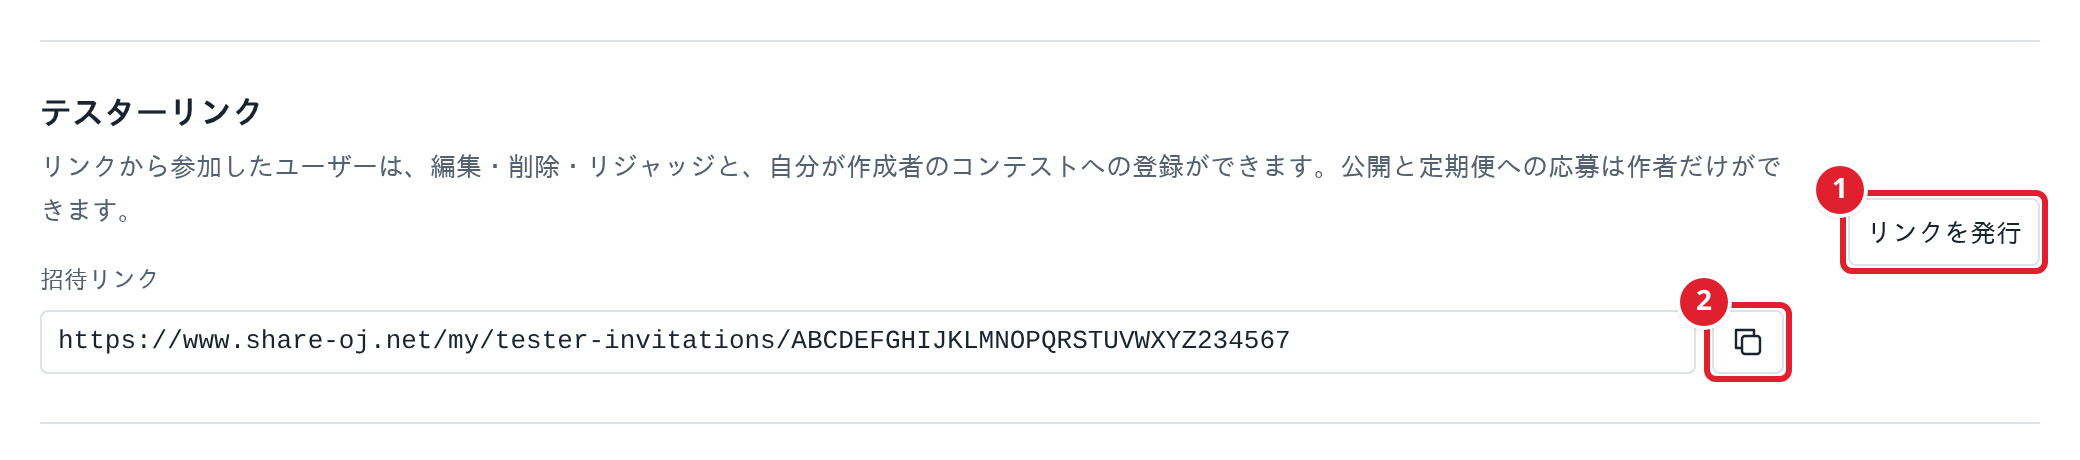
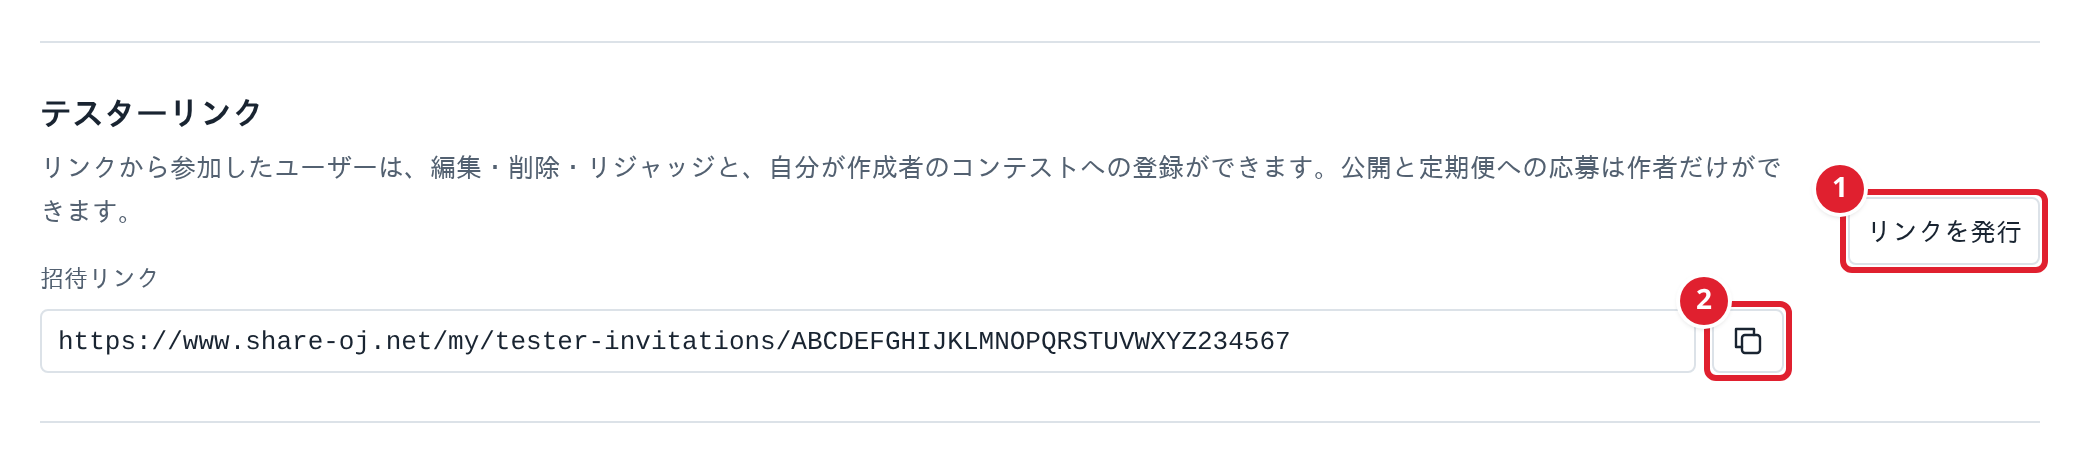
fix: 誤答ペナルティの数え方を実装に合わせ、ガイドの画像を撮り直す

diff --git a/web/app/content/docs/contest-rules.md b/web/app/content/docs/contest-rules.md
@@ -23,16 +23,21 @@
 
 ## 誤答ペナルティ {#penalty}
 
-正解した問題ごとに、初めて正解する前の誤答の回数だけ、ペナルティ時間を足します。
+得点した問題ごとに、誤答の回数だけペナルティ時間を足します。
 1回あたりのペナルティ時間はコンテストのページに表示します。
 
 | 扱い | 対象 |
 | --- | --- |
 | 誤答として数える | :WA:、:RE:、:TLE:、:MLE:、:OLE: |
 | 数えない | :CE:、:JE:、判定待ちの提出 |
-| 数えない | 正解していない問題の誤答、正解したあとの誤答 |
+| 数えない | 得点していない問題の誤答 |
 
-部分点のある問題では、最後に得点を伸ばした提出より前の、得点を伸ばさなかった提出を誤答として数えます。
+数える誤答の範囲は、問題の採点方式で違います。
+
+| 問題 | 数える範囲 |
+| --- | --- |
+| 部分点のない問題 | 初めて正解する前の誤答 |
+| 部分点のある問題 | 最後に得点を伸ばした提出より前の、得点を伸ばさなかった提出 |
 
 たとえば、次の場合に順位の比較に使う時間は55分です。
 

diff --git a/web/README.md b/web/README.md
@@ -62,6 +62,12 @@ UUID を含む旧 URL は 301 で短い形へ転送する。
 サイドバー、ガイドのトップ、フッター、サイトマップ、共有画像は `shared/docs.ts` から作る。
 ページを足すときは、一覧に1件加えて本文の Markdown を置けばよい。
 
+大分類は読者（参加者向け、作問者向け、開発者向け）で分ける。
+`docSections` の `title` が、サイドバーと一覧の見出し、各ページの題名の上のラベルになる。
+1ページの読者は1人に決め、別の読者に必要な話はその読者のページへ移してリンクする。
+判定結果は `:AC:` のようにコロンで囲み、バッジで表示する。
+文面の決まりは[設計書](../docs/superpowers/specs/2026-11-13-guides-by-reader-design.md)の「文面の決まり」に従う。
+
 本文は問題文と同じレンダラーで表示する。
 `## 見出し {#id}` の形の見出しが、ページ内の目次になる。
 画面の幅が狭くても目次が1行に収まるように、見出しは短く書く。

diff --git a/docs/superpowers/specs/2026-11-13-guides-by-reader-design.md b/docs/superpowers/specs/2026-11-13-guides-by-reader-design.md
@@ -31,8 +31,8 @@
 - 入口で読者を選ばせる画面は作らない。
 - `docs/`配下の開発者向け文書（ジャッジの運用手順など）は対象外とする。
 - ガイドが説明している機能の挙動は変えない。
-- スクリーンショットは撮り直さない。
-  ただし、載せるページが変わる画像は移す。
+- スクリーンショットは、書き直しの最後に `bun run docs:screenshots` でまとめて撮り直す（利用者の指定）。
+  撮影の内容（どの画面のどこに番号を付けるか）は変えない。
 
 ## 失敗とみなす状態
 
